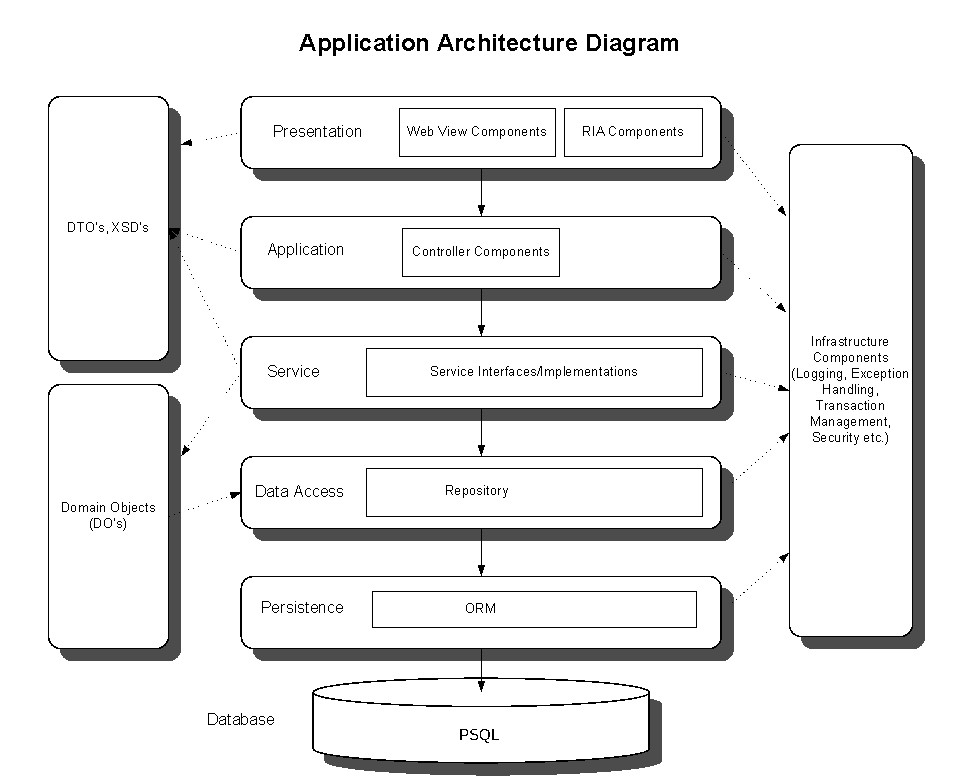
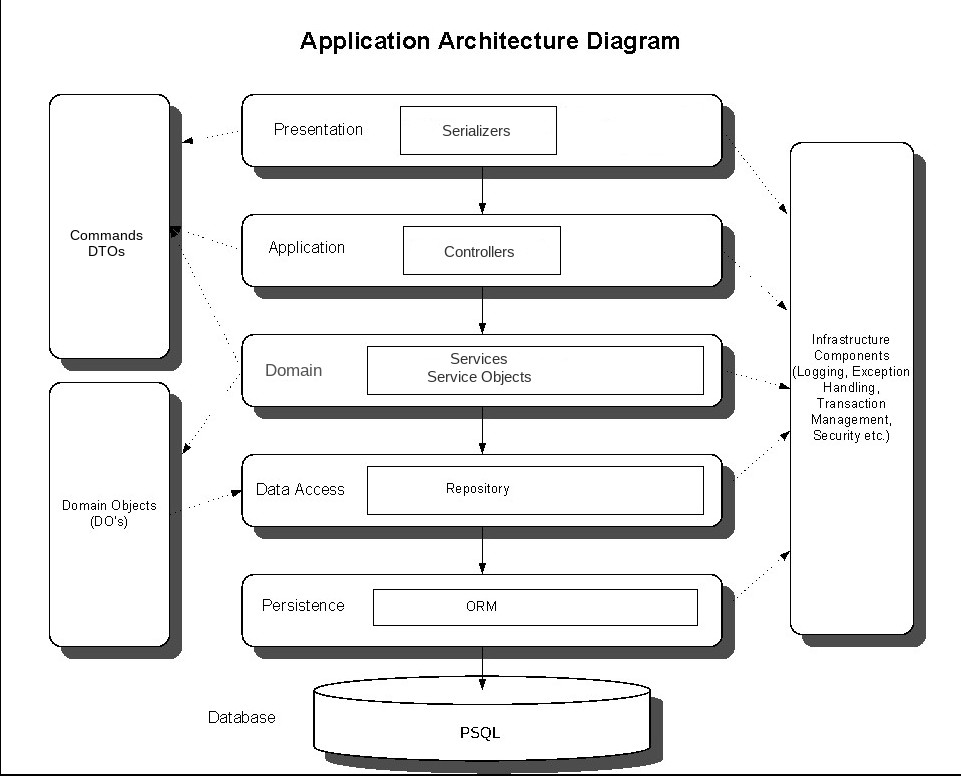
Update README

diff --git a/README.md b/README.md
@@ -69,19 +69,19 @@ https://codeclimate.com/github/hugocore/e-commerce-shop
 
 # The problem
 
-Implement a REST API that calculates the number of days to
+- Implement a REST API that calculates the number of days to
 deliver multiple shipments originating from different
 suppliers spread around the world.
 
-Not all suppliers supply all products, so it might be
+- Not all suppliers supply all products, so it might be
 necessary to collect partial shipments from different suppliers
 to fulfil one order.
 
-Every supplier operates in different regions and shipments
+- Every supplier operates in different regions and shipments
 from those regions might take different amounts of time to
 deliver the same product.
 
-Hence, the problem is knowing which suppliers to pick
+- Hence, the problem is knowing which suppliers to pick
 to provide the less amount of shipments,
 in the quickest fashion.
 
@@ -109,7 +109,7 @@ and the time the customer is waiting to receive it. For instance:
 In this example, the supplier *B* is chosen, because although
 B and D could provide the same products and cover all the
 necessary shipments (shipments by supplier = 2), compared with
-D is one day quicker to deliver the same products.
+D, is one day quicker to deliver the products.
 
 # Solution
 
@@ -144,23 +144,28 @@ I wanted to achieve an architecture that would:
 With these reasons in mind, I've decided to follow a *Domain-Driven Design*,
 where the following layers are stacked together:
 
-* API - Controllers receive HTTP requests that validate parameters and pass
+* Application - Controllers receive HTTP requests that validate parameters and pass
 down actions to services in the lower layer, i.e. domain layer, through DTOs.
 
-* Domain layer - This layer keeps the logic that applies to the underlying
+* Domain - This layer keeps the logic that applies to the underlying
 models, bounded in contexts about the many operations the system can do. Every
 domain is composed of services, repositories and other classes that make sense
 to be together and where a clear boundary of responsibility is defined. These are
 the existing domains:
 
- * Checkout - This domain deals with the process of allocating stock to a basket, based on criteria that favours fewer shipments per order.
+> Checkout - This domain deals with the process of allocating stock to a basket,
+based on criteria that favours fewer shipments per order.
 
-* Data layer - Controls the data storage and data logic that depends on the
-data management implementation chosen. To keep things simple in this project,
+* Data access - Middle layer that abstracts the data storage implementation chosen by a repository
+of data models that follow the same interfaces but can act on different data storages. In this
+project, it seemed overkill to have this layer due to the small number of models and their
+simplicity. Thus I just coupled services and ActiveRecord directly.
+
+* Data layer - Controls the data storage. To keep things simple in this project,
 I've used ActiveRecord to manage the system's entities a.k.a data models. These are the data models represented in
 an Entity–relationship model diagram (ERD):
 
-![ERD](assets/erd.jpg)
+![ERD](assets/erd.png)
 
 * Database - Keeps the data stored. For simplicity, I've chosen PostgreSQL
 due to its acceptable speed and easy to use. Another database, like Redis,
